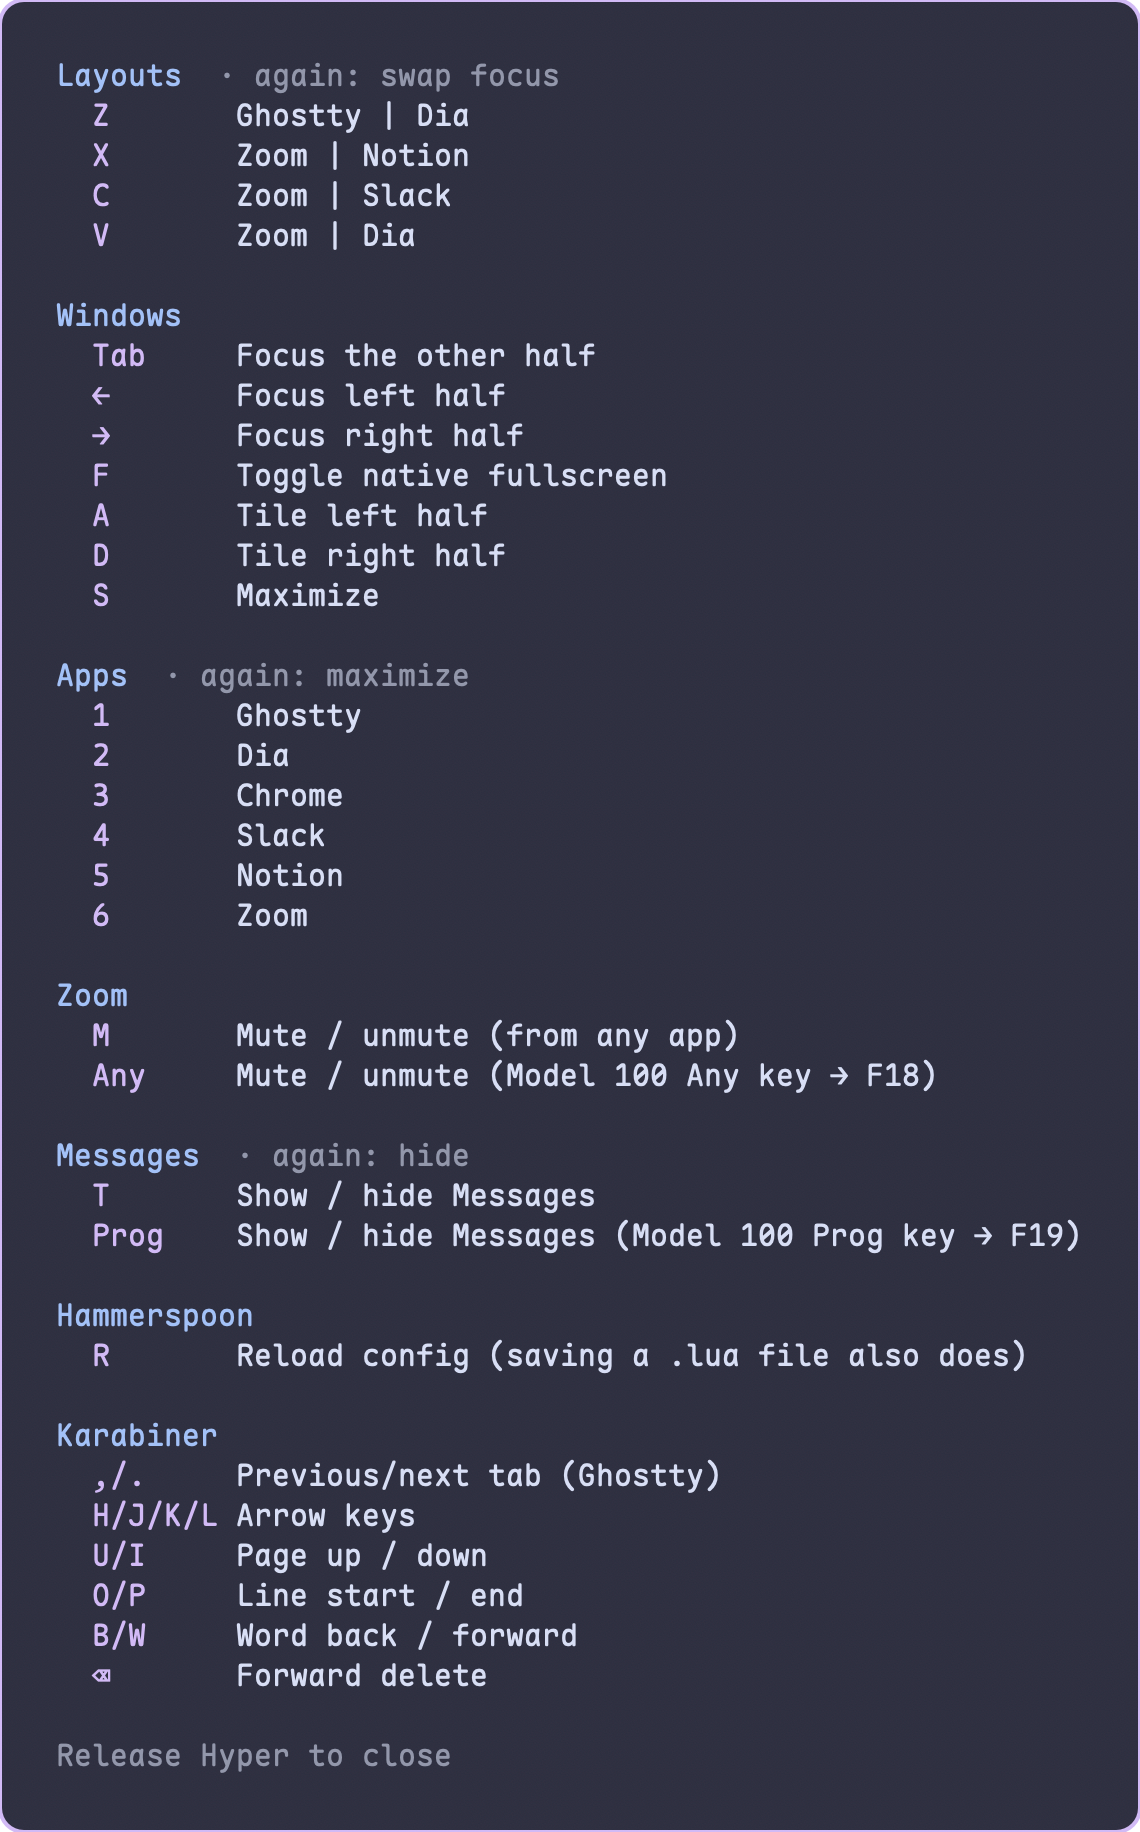
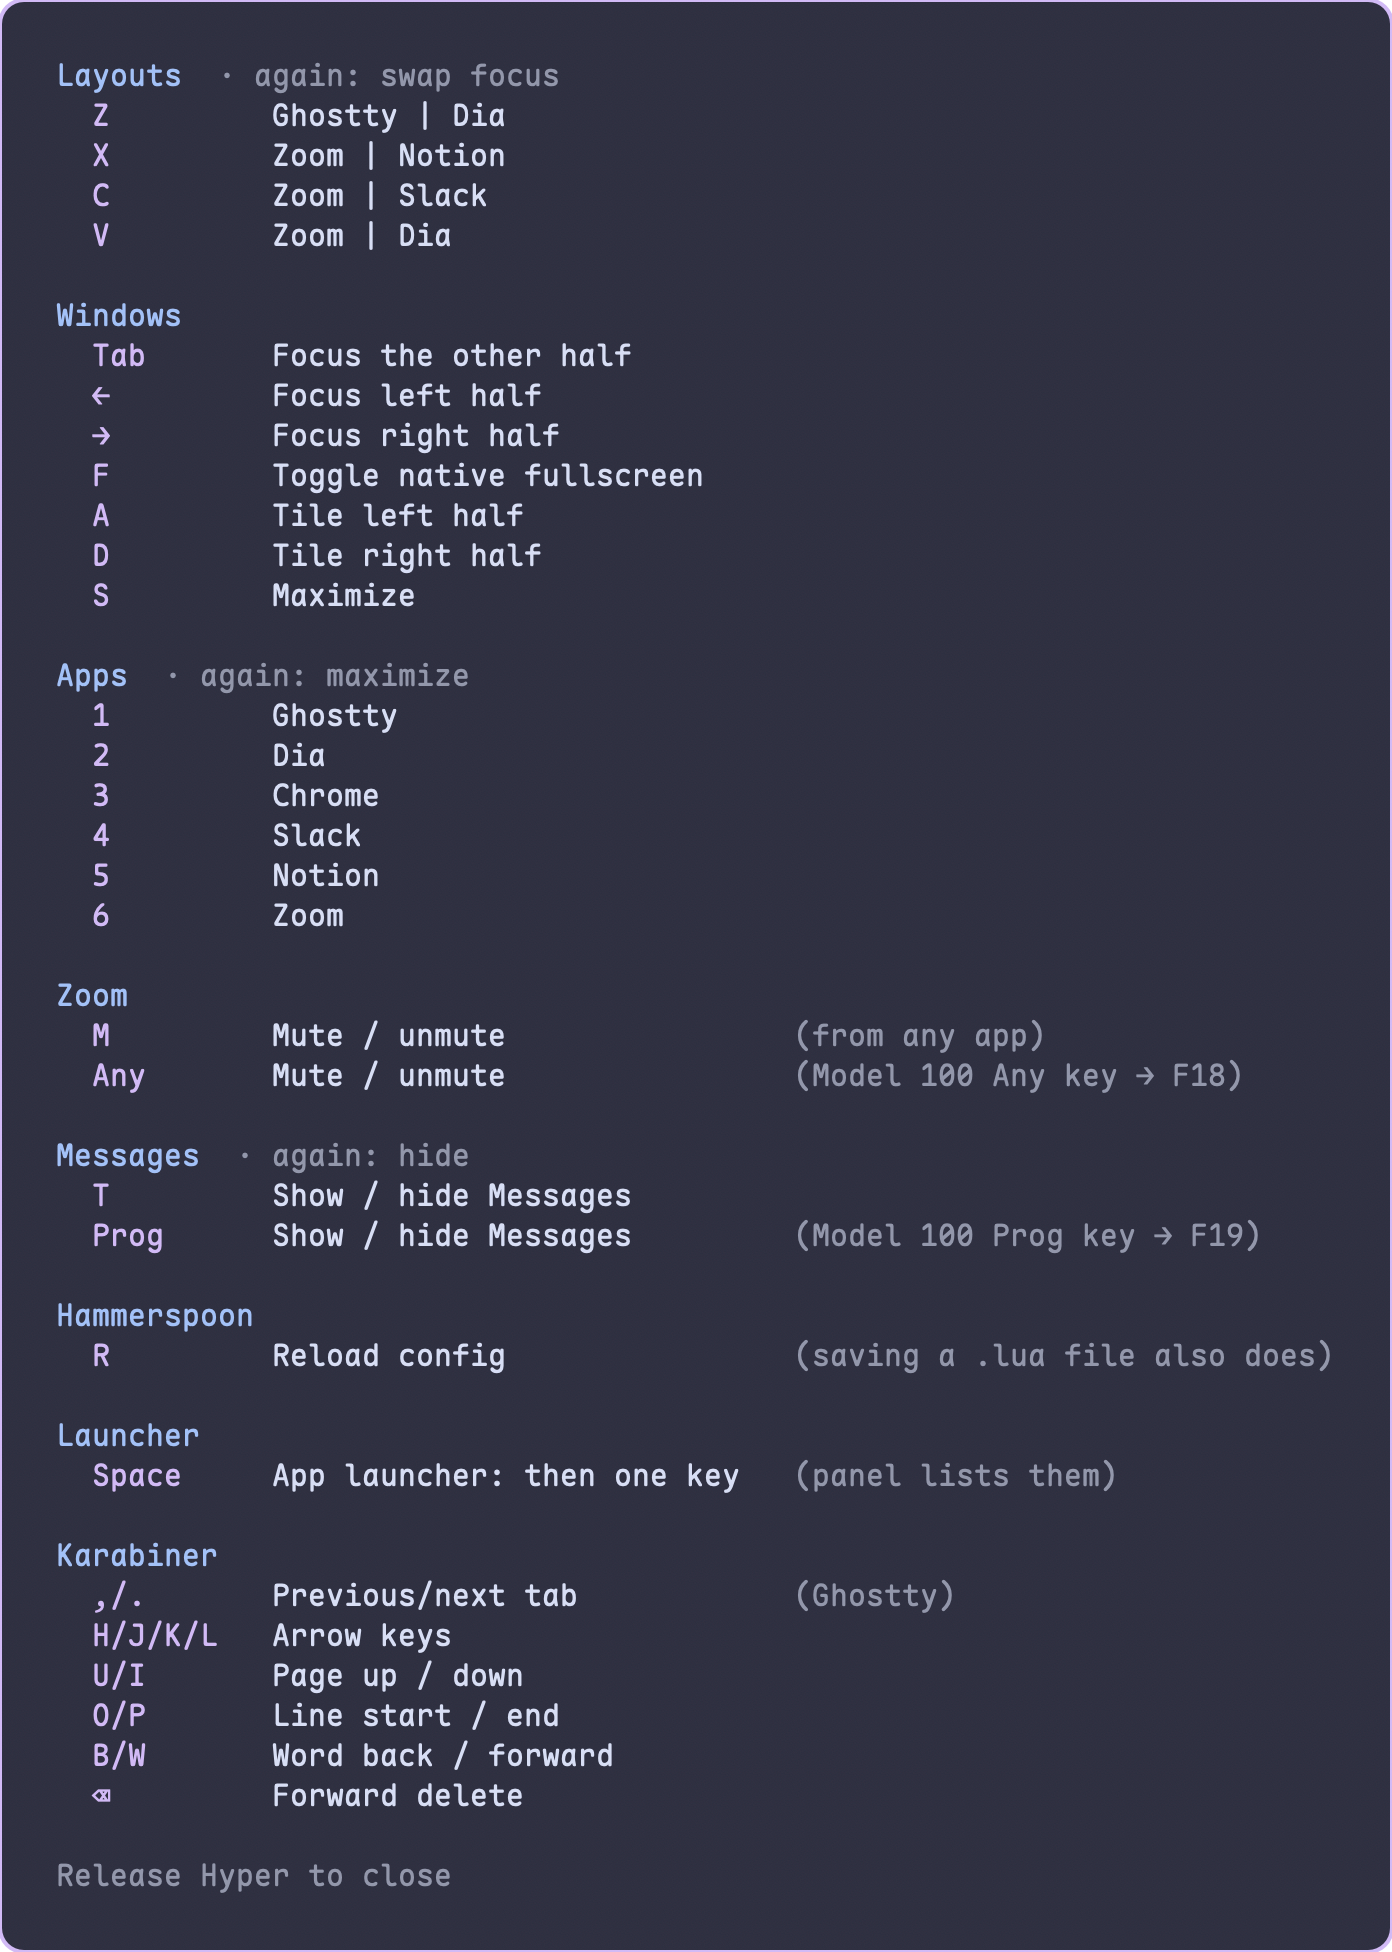
Hammerspoon: Hyper+Space launcher, column-aligned popups
Apps without a Hyper key (Claude, WhatsApp, ...) meant reaching for the
hidden Dock or waiting on Spotlight. Hyper+Space now opens a panel of
one-key shortcuts from a curated list; the key brings the app forward
like Hyper+1-6. An event tap runs only while the panel is up and
swallows keys, so they never reach the app underneath. Finder opens a
window when it has none (its main window is otherwise the Desktop).

The cheatsheet and the launcher share one renderer that lays out key,
description and a dimmed hint as columns sized to the widest entry.
Model 100 lights Hyper+Space green with the app keys.

Claude-Session: https://claude.ai/code/session_01GPLQFH3ZSRtaBoie4R85Q1

diff --git a/GUIDE.md b/GUIDE.md
@@ -681,6 +681,7 @@ brightness 200/255):
   | 1–6 — apps, each in its own color | Ghostty mauve (its Catppuccin accent), Dia yellow, Chrome green, Slack pink, Notion white, Zoom blue |
   | Z X C V — layouts · Tab A S D F — windows | mauve · blue |
   | T Messages · M Zoom mute · R reload | teal · red · yellow |
+  | Space — launcher | green (like the app keys) |
 
 - **Function** / **Numpad** — only their own keys lit, by kind: F-keys pink,
   arrows sky, media yellow, mouse keys green, brackets orange, editing and
@@ -728,6 +729,10 @@ is generated, not written by hand:
   `init.lua` — a binding made with plain `hs.hotkey.bind` won't appear.
 - Karabiner remaps come from `karabiner.json` rule descriptions written as
   `[App: ]Hyper+<keys> → <action>`; a trailing `(…)` note is left out.
+
+Every Hammerspoon popup (this one and the Hyper+Space launcher) is drawn in
+three columns sized to the widest entry: key, description, and a dimmed
+trailing `(…)` note or hint.
 
 ### Printable cheatsheet
 
@@ -824,6 +829,36 @@ The first press brings up the app's main window, the second maximizes it
 (launching the app if it has no window). For Zoom that's the **call** window
 during a meeting, never the meetings list ("Zoom Workplace"); the Zoom layouts
 (Hyper+X/C/V) pick the same way.
+
+### Launcher (Hammerspoon)
+
+`Hyper+Space` opens a panel of one-key shortcuts; press the key (no modifiers)
+and the app comes forward the same way as Hyper+1–6, launching it if needed.
+For apps used often enough to want a key, not often enough to earn a Hyper
+number — everything else stays with Spotlight.
+
+| Key | App | Key | App |
+|---|---|---|---|
+| G | Ghostty (also Hyper+1) | 1 | 1Password |
+| D | Dia (Hyper+2) | C | Claude |
+| H | Chrome (Hyper+3) | F | Finder |
+| S | Slack (Hyper+4) | M | Music |
+| N | Notion (Hyper+5) | V | VS Code |
+| Z | Zoom (Hyper+6) | W | WhatsApp |
+| T | Messages (Hyper+T) | , | System Settings |
+
+The panel lists them in this order: Hyper apps first, the rest
+alphabetically, System Settings last.
+
+- The panel shows straight away; typing the letter from memory just flashes it.
+- `Escape`, any key not in the list, `Hyper+Space` again or 3 s of nothing
+  closes it without doing anything. Its keys only work while it's open — an
+  event tap swallows them — so they never reach the app underneath.
+- `T` does what Hyper+T does (Messages over the right third). `F` opens a new
+  Finder window at home when none is open — otherwise Finder's only "window"
+  is the Desktop and nothing would appear.
+- The list is `launcherApps` in `init.lua`; a new app also needs its bundle ID
+  in `BUNDLE_IDS`. Keys are physical, so they survive the Czech layout.
 
 ### Zoom (Hammerspoon)
 

diff --git a/README.md b/README.md
@@ -14,7 +14,8 @@ same on a MacBook and a Keyboardio Model 100. Catppuccin Mocha everywhere.
   are bound to physical keys, so they stay put when switching to the Czech
   (QWERTZ) layout.
 - **Windows and apps on one hand.** Hyper+Z/X/C/V tile a pair of apps side by
-  side (press again to swap focus), Hyper+1–6 jump to an app, Hyper+A/S/D
+  side (press again to swap focus), Hyper+1–6 jump to an app, Hyper+Space
+  then one letter reaches the rest (W WhatsApp, C Claude…), Hyper+A/S/D
   tile or maximize. Messages pops over the current layout and hides again
   (Hyper+T); Zoom mutes from any app (Hyper+M, or one key on the Model 100).
 - **A nav layer under the right hand.** Hyper+H/J/K/L are arrows; U/I page,
